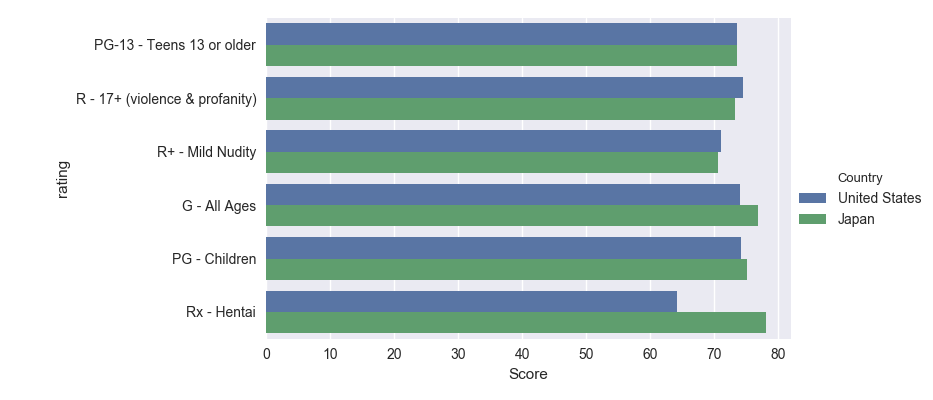
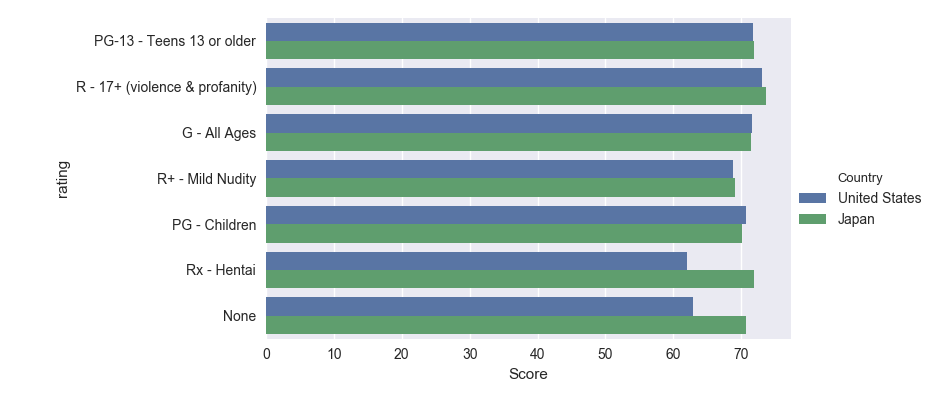
Update

diff --git a/Main.py b/Main.py
@@ -16,13 +16,14 @@ import mysql.connector
 import re
 import pandas as pd
 import numpy as np
+from scipy import stats
 
 # Settings
 base_review_url_us = 'https://myanimelist.net/anime/'
 base_search_url_jp = r'https://www.animesachi.com/visitor/search.php?sort=oastyle_up&key='
 base_review_url_jp = r'https://www.animesachi.com/visitor/'
 score_jp = re.compile(r'中央 ([0-9]+)点/平均')
-MAX_REVIEW = 1000
+MAX_REVIEW = 10000
 
 # Function to connect to google cloud sql
 def connect_to_cloudsql():
@@ -48,7 +49,7 @@ def getbsObj(url):
 
 # Extract rates from websites
 def getReview():
-    for index in range(1,MAX_REVIEW):
+    for index in range(1001,MAX_REVIEW):
         review_url = base_review_url_us + str(index)
         bsObj = getbsObj(review_url)
         
@@ -70,6 +71,7 @@ def getReview():
                     pass
                 
             print('Finished US ID ' + str(index) + '---')
+            conn.commit()
             
             # Extract japanese name and recode it
             Name_JP = bsObj.find(text= 'Japanese:').parent.parent.get_text()[12:-3]
@@ -88,6 +90,7 @@ def getReview():
                 c.execute("UPDATE anime SET jp_score = '%s' where id = '%s'" \
                           % (Score_JP, index))
                 print('Finished JP ID ' + str(index) + '---')
+                conn.commit()
             except:
                 pass
         else:
@@ -114,6 +117,8 @@ def TwoHist(dataset):
     plt.tight_layout()
     plt.savefig('./fig/Two_His_Plot.png',dpi=100)    
 
+def TwoCorr(dataset):
+    sns.set_style("darkgrid")
     sns.jointplot(x='us_score', y='jp_score', data=dataset).set_axis_labels('US Score','JP Score')
     plt.savefig('./fig/Two_Corr_Plot.png',dpi=100)
     
@@ -139,7 +144,7 @@ def Analyze():
     c.execute('select * from anime')
     entries = c.fetchall()
     anime_reviews = pd.DataFrame(entries)
-    
+
     c.execute('select * from anime_genre')
     entries = c.fetchall()
     anime_genres = pd.DataFrame(entries)
@@ -148,6 +153,8 @@ def Analyze():
     anime_reviews.columns = ['id','name','us_score','jp_score','rating','producer']
     anime_reviews = anime_reviews.dropna(axis=0, how='any')
     anime_reviews.us_score = anime_reviews.us_score * 10
+    anime_reviews['diff_score'] = anime_reviews.us_score - anime_reviews.jp_score 
+    top_25_producers = anime_reviews.producer.value_counts().keys()[:25]
     
     anime_genres.columns = ['id','genre']
     anime_genres = pd.merge(anime_genres, anime_reviews, left_on=['id'], right_on = ['id'],\
@@ -157,10 +164,24 @@ def Analyze():
     
     # Plots
     CountPlot(anime_reviews, 'rating', 'Rating',4,2)
-    CountPlot(anime_reviews, 'producer', 'Producer',15,1)
+    CountPlot(anime_reviews[anime_reviews.producer.isin(top_25_producers)], 'producer', 'Producer',4,2)
     TwoHist(anime_reviews)
+    TwoCorr(anime_reviews)
     ByColumnComparison(anime_reviews,'rating')
     ByColumnComparison(anime_genres,'genre')
+
+    # Summary Table
+    # 1.paired t test
+    stats.ttest_rel(anime_reviews.us_score,anime_reviews.jp_score)
+    
+    # 2.Group by rating & genre
+    summary_rating = anime_reviews.groupby('rating').agg({'diff_score': [np.mean, np.std]})
+    summary_genre = anime_genres.groupby('genre').agg({'diff_score': [np.mean, np.std]})
+    summary_producer = anime_reviews[anime_reviews.producer.isin(top_25_producers)].groupby('producer').agg({'diff_score': [np.mean, np.std]})
+        
+    #g = sns.FacetGrid(anime_genres[anime_genres.genre.isin(top_15_genres)], row='genre',
+    #                  size=1.7, aspect=4,)
+    #g.map(sns.distplot, 'diff_score', hist=True, rug=False,kde=False);
 
 
 if __name__ == '__main__':
